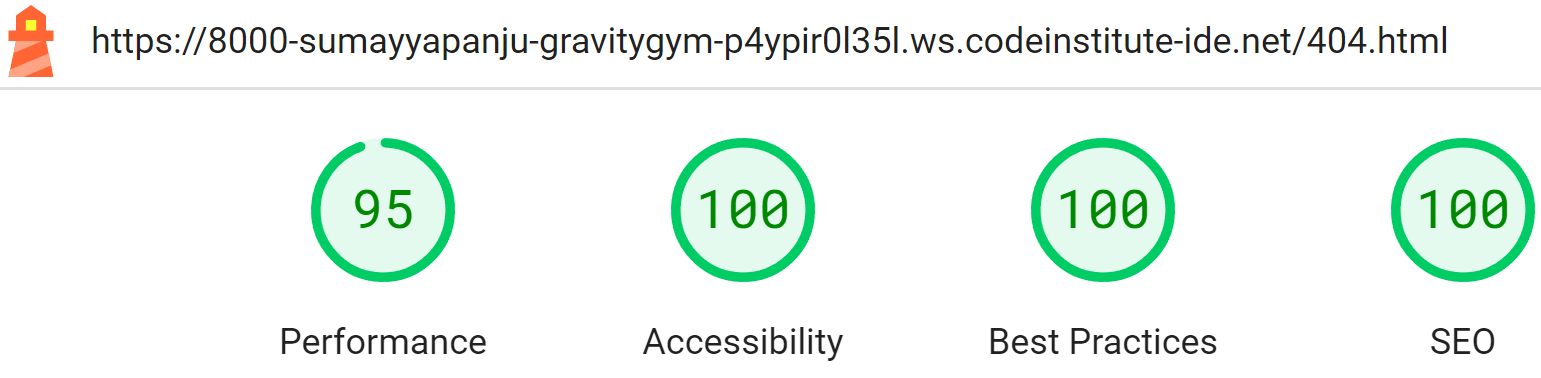
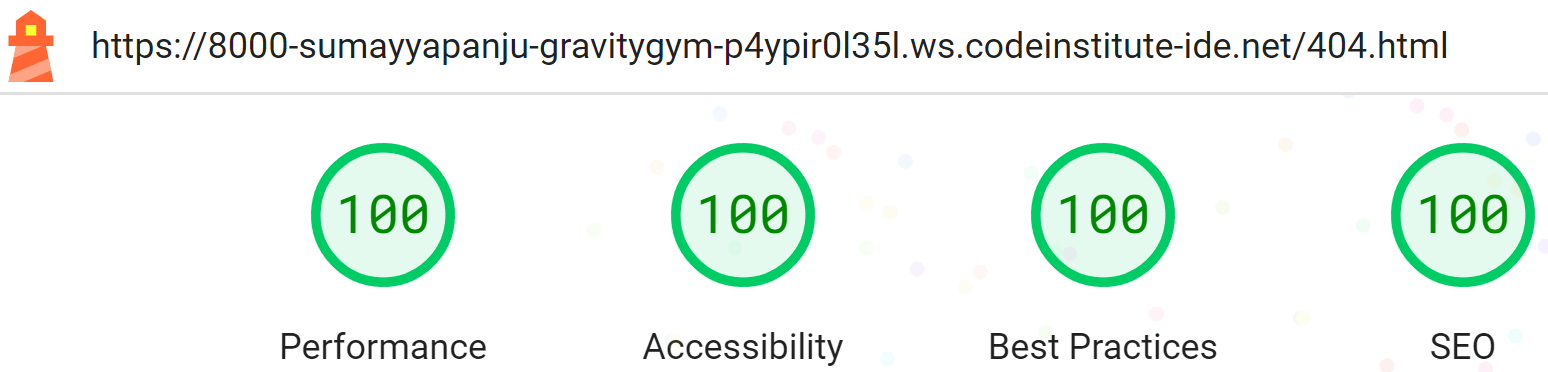
Testing: Desktop testing updated
Screenshots and changes made

diff --git a/TESTING.md b/TESTING.md
@@ -488,47 +488,62 @@ The following devices have been chosen to be tested:
 
 [Lighthouse](https://developer.chrome.com/docs/lighthouse/overview) is a chrome extension which is installed on the browser. It is used to audit quality of the website. The report indicates how the page can be improved. Lighthouse audit test is carried out for desktop and mobile. 
 
+### Desktop Audits
+
 >Click below, on the relevant headings to expand
+
+Lighthouse provided some suggestions on how the pages could be improved. Similar suggestions were provided for all pages. The screenshot below shows the suggestions provided by Lighthouse.  
 
 <details>
 
-**<summary> Desktop Audit - Before making improvements...</summary>**
-
-|                            | Screenshot                                                            | Evaluation tool suggests:                                                                                                                                                                     |
-|----------------------------|-----------------------------------------------------------------------|-----------------------------------------------------------------------------------------------------------------------------------------------------------------------------------------------|
-| **Home**                   | ![Screenshot](/assets/images/testing/audits/la-home-before.png)       | Add metadata, improve contrast, improve, preload, [and more](#further-information-on-lighthouse-audit-for-desktops)                                                                           |
-| **Plans**                  | ![Screenshot](/assets/images/testing/audits//la-plans-before.png)     | Add metadata, [and more](#further-information-on-lighthouse-audit-for-desktops)                                                                                                               |
-| **Plans - Thank you**      | ![Screenshot](/assets/images/testing/audits/la-plans-ty-before.png)   | Add metadata, [and more](#further-information-on-lighthouse-audit-for-desktops)                                                                                                               |
-| **Gallery**                | ![Screenshot](/assets/images/testing/audits/la-gallery-before.png)    | Add metadata, reduce network payloads, reduce large layout shifts, have discernible name for links, images to webp or avif, [and more](#further-information-on-lighthouse-audit-for-desktops) |
-| **Schedules**              | ![Screenshot](/assets/images/testing/audits/la-schedules-before.png)  | Add metadata, increase space for touch targets, [and more](#further-information-on-lighthouse-audit-for-desktops)                                                                             |
-| **Contact Us**             | ![Screenshot](/assets/images/testing/audits/la-contact-us-before.png) | Add metadata, resize background image to match natural aspect ratio, [and more](#further-information-on-lighthouse-audit-for-desktops)                                                        |
-| **Contact Us - Thank you** | ![Screenshot](/assets/images/testing/audits/la-thankyou-before.png)   | Add metadata, [and more](#further-information-on-lighthouse-audit-for-desktops)                                                                                                               |
-| **404**                    | ![Screenshot](/assets/images/testing/audits/la-404-before.png)        | Add metadata, [and more](#further-information-on-lighthouse-audit-for-desktops)                                                                                                               |
-
-#### Further information on lighthouse audit for desktops
-
-For all or almost all pages, there were common suggestions by lighthouse to improve performance of the website. These suggestions were not carried out due to lack of skills/knowledge in those areas. The screenshot below shows the suggestions given by lighthouse:
+**<summary>Suggestions by Lighthouse audit for improvements before changes</summary>**
 
 >![Screenshot](/assets/images/testing/audits/diagnostic-results.png)
 
 </details>
 
+<br>
+
+<br>
+
+After implementing the changes, most of the suggestions made imrpoved the site score. However, there were some diagnostic suggestions that was beyond my ability to overcome. Either due to lack of capacity or lack of administrative rights. This was consistent for all pages throughout the project. The screenshot below shows the suggestions provided by Lighthouse that could increase the score further.  
+
 <details>
 
-**<summary> Desktop Audit - After making improvements...</summary>**
+**<summary>Suggestions by Lighthouse audit for improvements after changes</summary>**
 
-|                            | Screenshot                                                           | Notes                                                                                                                                                                                                                                                                                  |
-|----------------------------|----------------------------------------------------------------------|----------------------------------------------------------------------------------------------------------------------------------------------------------------------------------------------------------------------------------------------------------------------------------------|
-| **Home**                   | ![Screenshot](/assets/images/testing/audits/la-home-after.png)       | Metadata was added, contrast was changed                                                                                                                                                                                                                                               |
-| **Plans**                  | ![Screenshot](/assets/images/testing/audits/la-plans-after.png)      | Meta description is added                                                                                                                                                                                                                                                              |
-| **Plans - Thank you**      | ![Screenshot](/assets/images/testing/audits/la-plans-ty-after.png)   | Meta description is added                                                                                                                                                                                                                                                              |
-| **Gallery**                | ![Screenshot](/assets/images/testing/audits/la-gallery-after.png)    | Metadata was added, links were given a discernible name, alt texts was assigned, images were converted to webp                                                                                                                                                                         |
-| **Schedules**              | ![Screenshot](/assets/images/testing/audits/la-schedules-after.png)  | Metadata was added, and spacing was also added. However, it still does not meet the minimum threshold required for accessibility. Further spacing is not added, as spacing seems sufficient. There is no adjacent buttons. The next button is in the next section which acts as a tab. |
-| **Contact Us**             | ![Screenshot](/assets/images/testing/audits/la-contact-us-after.png) | Metadata was added and image was resized                                                                                                                                                                                                                                               |
-| **Contact Us - Thank you** | ![Screenshot](/assets/images/testing/audits/la-thankyou-after.png)   | Metadata was added.                                                                                                                                                                                                                                                                    |
-| **404**                    | ![Screenshot](/assets/images/testing/audits/la-404-after.png)        | Metadata was added.                                                                                                                                                                                                                                                                    |
+>![Screenshot](/assets/images/testing/audits/diagnostic-results-after.png) 
+
 </details>
 
+<br>
+
+<br>
+
+The table below shows the lighthouse results before and after changes have been implemented. 
+
+<details>
+
+**<summary> Desktop Audit Results</summary>**
+
+|                            | Screenshot - Before changes | Screenshot - After changes  suggests:                  |
+|----------------------------|------------------------------------------|-------------------------------------------|
+| **Home**                   |![Screenshot](/assets/images/testing/audits/la-home-before.png) | ![Screenshot](/assets/images/testing/audits/la-home-after.png)       |
+| **Plans**                  | ![Screenshot](/assets/images/testing/audits//la-plans-before.png)     | ![Screenshot](/assets/images/testing/audits/la-plans-after.png)       |
+| **Plans - Thank you**      | ![Screenshot](/assets/images/testing/audits/la-plans-ty-before.png)   | ![Screenshot](/assets/images/testing/audits/la-plans-ty-after.png) |
+| **Gallery**                | ![Screenshot](/assets/images/testing/audits/la-gallery-before.png)    | ![Screenshot](/assets/images/testing/audits/la-gallery-after.png) |
+| **Schedules**              | ![Screenshot](/assets/images/testing/audits/la-schedules-before.png)  | ![Screenshot](/assets/images/testing/audits/la-schedules-after.png)  |
+| **Contact Us**             | ![Screenshot](/assets/images/testing/audits/la-contact-us-before.png) | ![Screenshot](/assets/images/testing/audits/la-contact-us-after.png)     |
+| **Contact Us - Thank you** | ![Screenshot](/assets/images/testing/audits/la-thankyou-before.png)   | ![Screenshot](/assets/images/testing/audits/la-thankyou-after.png)   |
+| **404**                    | ![Screenshot](/assets/images/testing/audits/la-404-before.png)        | ![Screenshot](/assets/images/testing/audits/la-404-after.png)    |
+
+
+</details>
+
+<br>
+
+
+### Mobile Audit 
 <details>
 
 **<summary> Mobile Audit...</summary>**
@@ -544,6 +559,23 @@ For all or almost all pages, there were common suggestions by lighthouse to impr
 | **Contact Us**             | ![Screenshot](/assets/images/testing/audits/la-m-contactus.png) | [See below](#further-information-on-lighthouse-audit-for-mobiles) |
 | **Contact Us - Thank you** | ![Screenshot](/assets/images/testing/audits/la-m-thankyou.png)  | [See below](#further-information-on-lighthouse-audit-for-mobiles) |
 | **404**                    | ![Screenshot](/assets/images/testing/audits/la-m-404.png)       | [See below](#further-information-on-lighthouse-audit-for-mobiles) |
+
+
+### Changes implemented
+
+Based on the suggestions the following changes were made for each pages:
+
+
+|Pages          | Changes made          |
+|---------------|-----------------------|
+| **All pages**      | - Metadata was added to improve SEO <br> - Colours changed to improve contrast <br> - Critical CSS added to improve performance <br> - External links moved to the bottom of the page as Critical CSS has been added <br> - Images given an explicit size to improve performance <br> -  Images resized and optimised to improve performance - Images converted to webp format to improve performance| 
+| **Home**     | - Different sizes used for different devices for full width image to improve performance|
+|**Gallery** | - Links were given a discernible name and alt texts was assigned to improve SEO and accessibility. |
+|**Schedules** | Spacing for touch target was increased for improving accessibility |
+|**Contact Us** | - Image size changed to match natural aspect ratio for best practice |
+
+<br>
+
 
 #### Further information on lighthouse audit for mobiles
 
